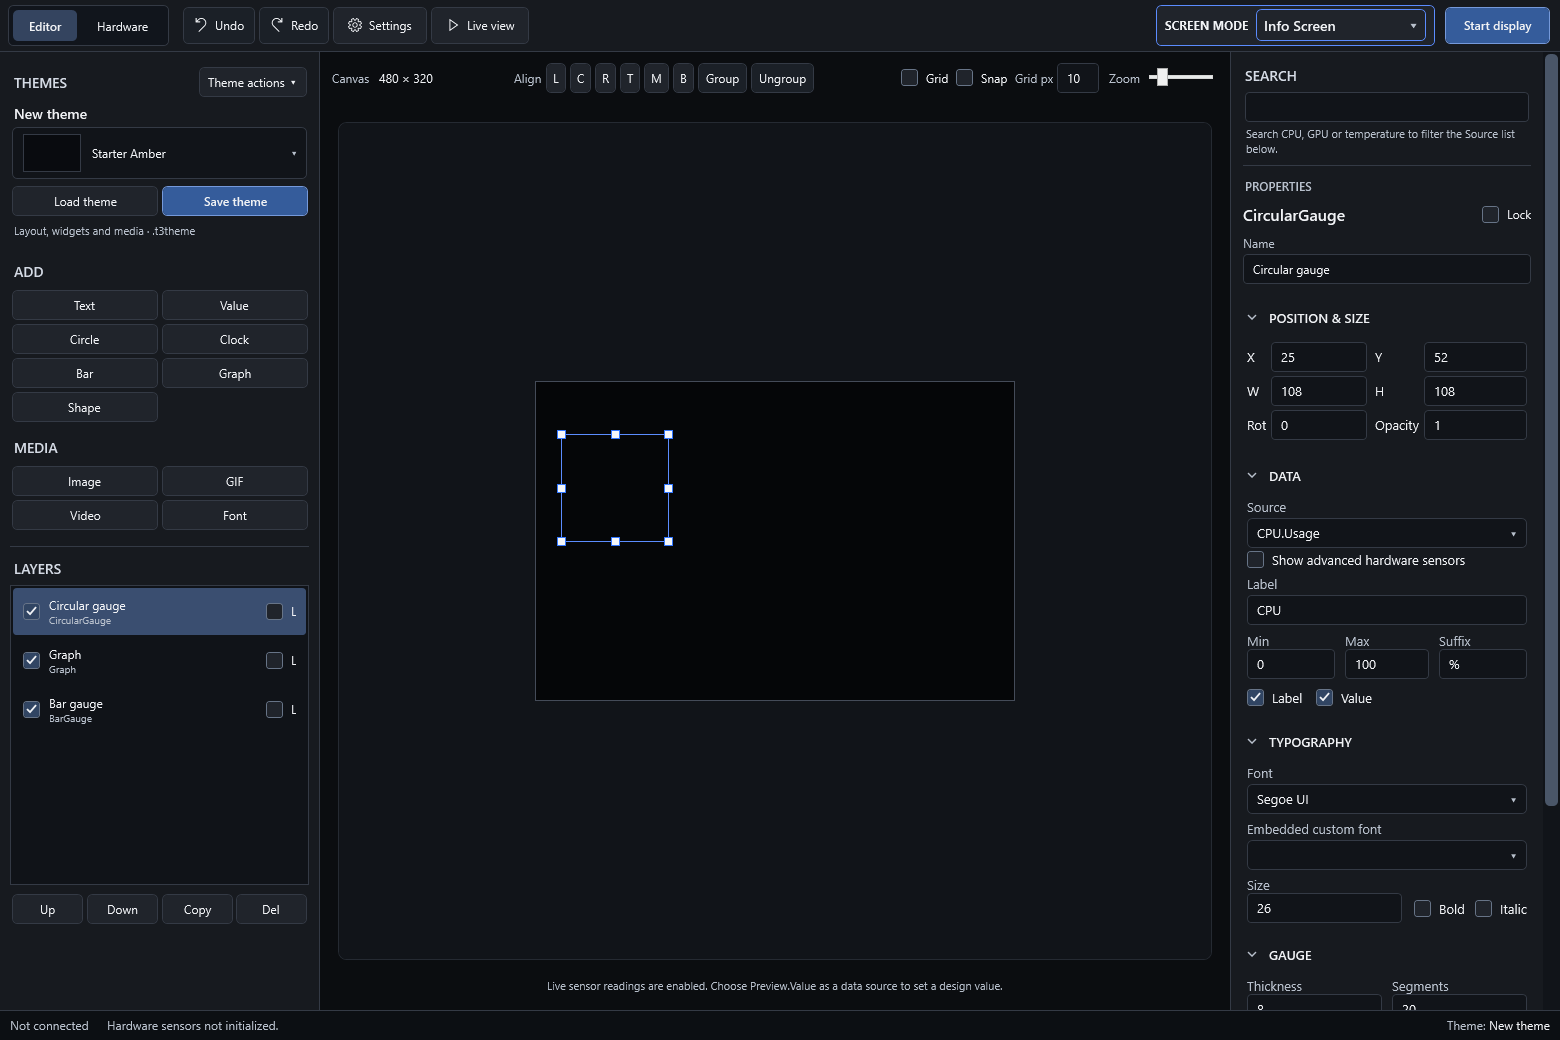
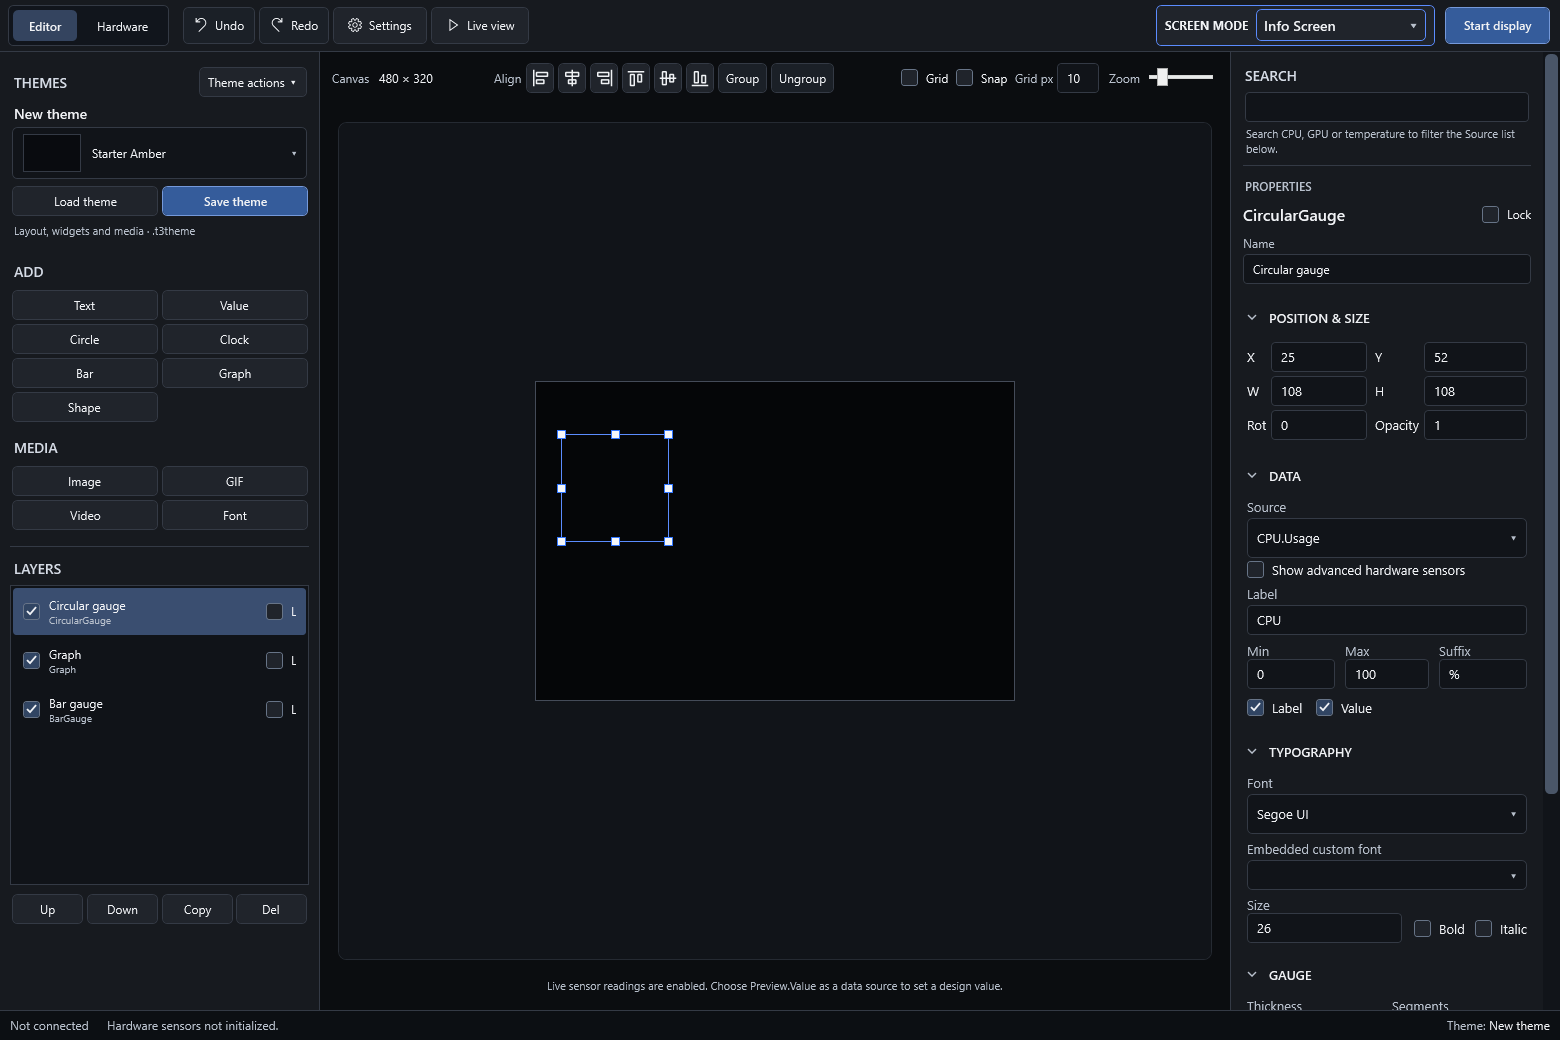
Release v0.10.0-alpha.6: clearer empty states, alignment and numeric feedback

diff --git a/src/PCInfoScreenStudio.App/MainWindow.xaml b/src/PCInfoScreenStudio.App/MainWindow.xaml
@@ -459,7 +459,7 @@
               <CheckBox Content="Grid" IsChecked="{Binding Document.EditorGridVisible}" Margin="4,0,8,0" ToolTip="Show or hide the editor grid. It is not included in the display output." />
               <CheckBox Content="Snap" IsChecked="{Binding Document.SnapToGrid}" Margin="0,0,8,0" ToolTip="Snap dragging, resizing, and arrow-key movement to the configured grid spacing." />
               <TextBlock Text="Grid px" Foreground="{StaticResource MutedTextBrush}" VerticalAlignment="Center" Margin="0,0,4,0" />
-              <TextBox controls:NumericValidation.Field="GridSize" Width="42" Text="{Binding Document.GridSize, UpdateSourceTrigger=LostFocus}" ToolTip="Grid spacing in screen pixels" />
+              <TextBox Width="42" Text="{Binding Document.GridSize, UpdateSourceTrigger=LostFocus}" ToolTip="Grid spacing in screen pixels" />
             </StackPanel>
             <TextBlock Text="Zoom" Foreground="{StaticResource MutedTextBrush}" VerticalAlignment="Center" Margin="10,0,4,0" />
             <Slider Width="74" Minimum="0.5" Maximum="3" SmallChange="0.1" LargeChange="0.5"

diff --git a/tests/PCInfoScreenStudio.ControllerChecks/UiPolishChecks.cs b/tests/PCInfoScreenStudio.ControllerChecks/UiPolishChecks.cs
@@ -162,7 +162,6 @@ internal static class UiPolishChecks
         var graph = vm.SelectedWidget!;
         CheckField(Field(window, "HistorySeconds"), "2.5", "20", () => graph.HistorySeconds, 20);
         CheckField(Field(window, "LineThickness"), "0", "2", () => graph.LineThickness, 2);
-        CheckField(Field(window, "Document.GridSize"), "101", "20", () => vm.Document.GridSize, 20);
         vm.SelectedWidget = widget;
         Flush();
         Assert(!Validation.GetHasError(Field(window, "Width")) && Field(window, "Width").Text == "20",
@@ -199,8 +198,12 @@ internal static class UiPolishChecks
     private static void Capture(FrameworkElement root, string directory, string name)
     {
         Directory.CreateDirectory(directory);
+        // The runner's desktop can be smaller than the app's normal editor size.
+        // Capture the full control tree rather than a clipped monitor viewport.
+        root.Measure(new Size(1560, 1040));
+        root.Arrange(new Rect(0, 0, 1560, 1040));
         root.UpdateLayout();
-        var bitmap = new RenderTargetBitmap((int)root.ActualWidth, (int)root.ActualHeight, 96, 96, PixelFormats.Pbgra32);
+        var bitmap = new RenderTargetBitmap(1560, 1040, 96, 96, PixelFormats.Pbgra32);
         bitmap.Render(root);
         var encoder = new PngBitmapEncoder();
         encoder.Frames.Add(BitmapFrame.Create(bitmap));

diff --git a/README.md b/README.md
@@ -2,7 +2,7 @@
 
 A visual Windows editor and runtime for 3.5-inch Turing/TURZX-style USB PC info screens. Create a sensor dashboard, use the screen as a photo frame, or combine photos with information overlays.
 
-> **Status:** `0.10.0-alpha.5`. Actively developed alpha. A permanent Windows x64 [portable download](https://github.com/ManethonSega/PC-Info-Screen-Studio/releases/tag/v0.10.0-alpha.5) is available. Development builds are also available through GitHub Actions. There is no installer, code signing or automatic updater.
+> **Status:** `0.10.0-alpha.6`. Actively developed alpha. A permanent Windows x64 [portable download](https://github.com/ManethonSega/PC-Info-Screen-Studio/releases/tag/v0.10.0-alpha.6) is available. Development builds are also available through GitHub Actions. There is no installer, code signing or automatic updater.
 
 The priorities are an intuitive interface, lightweight operation, and a clear preview of the physical screen.
 
@@ -52,7 +52,7 @@ Choose a global caption font in Photo Frame or Hybrid, add a **Shape** from Hybr
 
 ### Readable dark controls
 
-Selected layers, dropdown choices, tooltips and checkboxes use explicit dark styling, with consistent spacing and visible keyboard focus. Direct Add buttons and sensor search keep their familiar positions.
+Selected layers, dropdown choices, tooltips and checkboxes use explicit dark styling, with consistent spacing and visible keyboard focus. Direct Add buttons and sensor search keep their familiar positions. Empty photo previews explain how to add files or a folder, and an empty Hybrid canvas prompts you to add an overlay. Property fields appear only when an item is selected. Alignment uses illustrated icons with descriptive tooltips. Invalid numeric input shows an inline explanation and preserves the last valid setting until corrected.
 
 ![Actual WPF selected items, checked controls, text input, tooltip and section header with readable dark styling](docs/images/control-states.png)
 
@@ -72,11 +72,11 @@ Photo Frame (`.pcphoto`) and Hybrid (`.pchybrid`) themes save settings in their 
 
 ## Download and run
 
-1. Download [PCInfoScreenStudio-0.10.0-alpha.5-win-x64.zip](https://github.com/ManethonSega/PC-Info-Screen-Studio/releases/download/v0.10.0-alpha.5/PCInfoScreenStudio-0.10.0-alpha.5-win-x64.zip) from the [portable alpha release](https://github.com/ManethonSega/PC-Info-Screen-Studio/releases/tag/v0.10.0-alpha.5).
+1. Download [PCInfoScreenStudio-0.10.0-alpha.6-win-x64.zip](https://github.com/ManethonSega/PC-Info-Screen-Studio/releases/download/v0.10.0-alpha.6/PCInfoScreenStudio-0.10.0-alpha.6-win-x64.zip) from the [portable alpha release](https://github.com/ManethonSega/PC-Info-Screen-Studio/releases/tag/v0.10.0-alpha.6).
 2. Extract the **entire folder** to a permanent location, then run `PCInfoScreenStudio.exe`. Keep all extracted files together.
 3. Read `START-HERE.txt` for connection, startup and tray instructions. The build is self-contained; no separate .NET runtime installation is required.
 
-The release includes [SHA256SUMS.txt](https://github.com/ManethonSega/PC-Info-Screen-Studio/releases/download/v0.10.0-alpha.5/SHA256SUMS.txt), matching source archives and `build-info.json` with the exact source commit. This is an **unsigned alpha**, with [documented device limits](docs/COMPATIBILITY.md) and [validation results and remaining checks](docs/VALIDATION.md).
+The release includes [SHA256SUMS.txt](https://github.com/ManethonSega/PC-Info-Screen-Studio/releases/download/v0.10.0-alpha.6/SHA256SUMS.txt), matching source archives and `build-info.json` with the exact source commit. This is an **unsigned alpha**, with [documented device limits](docs/COMPATIBILITY.md) and [validation results and remaining checks](docs/VALIDATION.md).
 
 For newer development builds, open the [Windows build workflow](https://github.com/ManethonSega/PC-Info-Screen-Studio/actions/workflows/build.yml), select the latest successful `main` run, then download `PCInfoScreenStudio-win-x64` under **Artifacts**. GitHub may require sign-in. These artifacts expire after **3 days**; the release download above is permanent.
 

diff --git a/docs/releases/0.10.0-alpha.6.md b/docs/releases/0.10.0-alpha.6.md
@@ -1,0 +1,23 @@
+# PC Info Screen Studio 0.10.0-alpha.6, portable alpha
+
+A focused update to make empty workspaces, alignment and numeric editing easier to understand.
+
+## Changed
+
+- Empty Photo Frame previews show **Add photos or choose a folder**. Hybrid also shows **Add an overlay** until an overlay exists. These editor hints disappear in Live view and are never sent to the physical screen.
+- Widget properties hide when no layer is selected, including Hybrid position, typography and colour controls.
+- Six illustrated alignment buttons replace the single-letter labels. Hover help explains canvas alignment for one widget and selection-bounds alignment for multiple widgets.
+- Invalid dimensions, opacity, sensor ranges and photo settings show an inline explanation. Invalid drafts preserve the last valid setting; corrected values commit when leaving the field. Partial typing remains possible and decimal parsing respects the field culture.
+- README workspace screenshots reflect these changes. Existing direct Add buttons and source-search workflow are preserved.
+
+## Download
+
+Extract the entire **PCInfoScreenStudio-0.10.0-alpha.6-win-x64.zip** folder, then run `PCInfoScreenStudio.exe`. The package is self-contained and includes getting-started instructions, licences, device notes and exact source/build metadata. `SHA256SUMS.txt` verifies the ZIP.
+
+## Validation and limits
+
+Actual WPF checks cover prompt visibility, selection/deselection, all six alignment actions, multi-selection alignment, inline errors, correcting drafts, invalid range endpoints, non-finite input, comma decimals, photo settings and Hybrid isolation. Existing source search, theme save/reopen, session, tray and simulated reconnect checks also run. The published executable and extracted portable ZIP pass startup smoke checks before publication.
+
+This remains an unsigned alpha focused on 480 × 320 Revision-A USB serial screens. Physical-screen, real Windows reboot and first-time-user validation remain pending. Video playback is not implemented. Photos remain linked to their PC paths. See the included validation and device-compatibility documents.
+
+GPL-3.0-or-later; third-party licences remain in the package.

diff --git a/docs/VALIDATION.md b/docs/VALIDATION.md
@@ -4,10 +4,15 @@ This document describes what the release workflow verifies and what still needs 
 
 Candidate validation passed on **5 October 2026** in [Windows run 37367471392](https://github.com/ManethonSega/PC-Info-Screen-Studio/actions/runs/37367471392), including the extracted portable ZIP. The release workflow repeats these checks for its tagged source.
 
+UI-polish candidate checks passed on **6 October 2026** in [Windows run 37420665087](https://github.com/ManethonSega/PC-Info-Screen-Studio/actions/runs/37420665087), with zero compiler warnings or errors. The alpha.6 release workflow repeats these checks for its tagged source.
+
 ## Automated Windows checks
 
 | Workflow | Evidence provided by the checks |
 | --- | --- |
+| Empty states and property panels | Actual WPF Photo Frame and Hybrid prompts appear and disappear as photos and overlays change. They are absent in Live view; blank property editors hide when no widget is selected. |
+| Alignment icons | All six vector buttons retain single-widget canvas alignment and multi-selection alignment, with accessible names and descriptive tooltips. |
+| Numeric editing | Actual numeric fields reject invalid dimensions, opacity, range endpoints, photo timing and caption settings before their setters clamp them. Inline feedback appears while typing, corrections clear it, finite-number checks reject malformed values, and comma decimals honour the field culture. Invalid drafts preserve the last valid model value. |
 | Configure a selected widget | The actual search box filters the Source dropdown. GPU and multiword queries, empty results, Clear, advanced sensors and switching widgets preserve the current sensor until an explicit choice; Hybrid saves/reopens that choice. Search never adds widgets. |
 | Add, edit and save Info Screen | Direct Add command creates a widget; the application save path writes it into the reopened `.t3theme`. |
 | Save Photo Frame | The app saves global caption settings and retains the linked playlist. `.pcphoto` files exclude photos. |

diff --git a/docs/ROADMAP.md b/docs/ROADMAP.md
@@ -1,6 +1,6 @@
 # Roadmap
 
-Current source version: **0.10.0-alpha.5**.
+Current source version: **0.10.0-alpha.6**.
 
 The next milestone is product polish, not another broad feature category. Priorities remain **easy to use, lightweight, intuitive, and visually clear**. Checked items below describe implemented functionality, not a claim that every device or workload has been validated.
 
@@ -14,6 +14,8 @@ The next milestone is product polish, not another broad feature category. Priori
 - [x] Direct Add buttons on the left; configuration on the right, with search filtering the selected widget's Source dropdown.
 - [x] Separate Edit and Live-view workflows.
 - [x] Wider scrollable left panel and expandable sections with persisted preferences.
+- [x] Editor-only empty-state prompts, selected-widget-only properties and vector alignment icons with descriptive tooltips.
+- [x] Inline numeric validation for dimensions, opacity, sensor ranges and photo settings, with invalid drafts preserving the last valid value.
 
 ### Info Screen editor
 
@@ -88,7 +90,7 @@ Validation should be focused on these user workflows and physical-device behavio
 
 ### 4. Make distribution dependable
 
-- [x] Publish 0.10.0-alpha.5 as a versioned GitHub Release with a permanent portable download and matching source.
+- [x] Publish 0.10.0-alpha.6 as a versioned GitHub Release with a permanent portable download and matching source.
 - [x] Compatibility and validation records distinguish automated checks from physical-device evidence.
 - [x] Refresh the UI screenshots from the actual Windows WPF controls before publication.
 - [ ] Decide on an installer and file associations after the portable workflow is stable.

diff --git a/CHANGELOG.md b/CHANGELOG.md
@@ -1,5 +1,13 @@
 # Changelog
 
+## 0.10.0-alpha.6
+
+- Added editor-only prompts to empty Photo Frame and Hybrid previews.
+- Hidden widget property fields when no layer is selected.
+- Replaced alignment letters with vector icons, accessible names and explanatory tooltips.
+- Added inline numeric errors while retaining valid settings and commit-on-focus-loss editing.
+- Added actual WPF checks for these workflows and refreshed the README workspace captures.
+
 ## 0.8.2-alpha.1
 
 - Bundled the official unmodified PawnIO 2.2.0 setup executable inside Windows release artifacts under `Prerequisites`.
@@ -139,3 +147,4 @@
 
 - Added initial live Windows data providers for CPU load, memory, storage, networking and clock/date values.
 - Added live graph-history buffering separated from saved design-time theme data.
+
